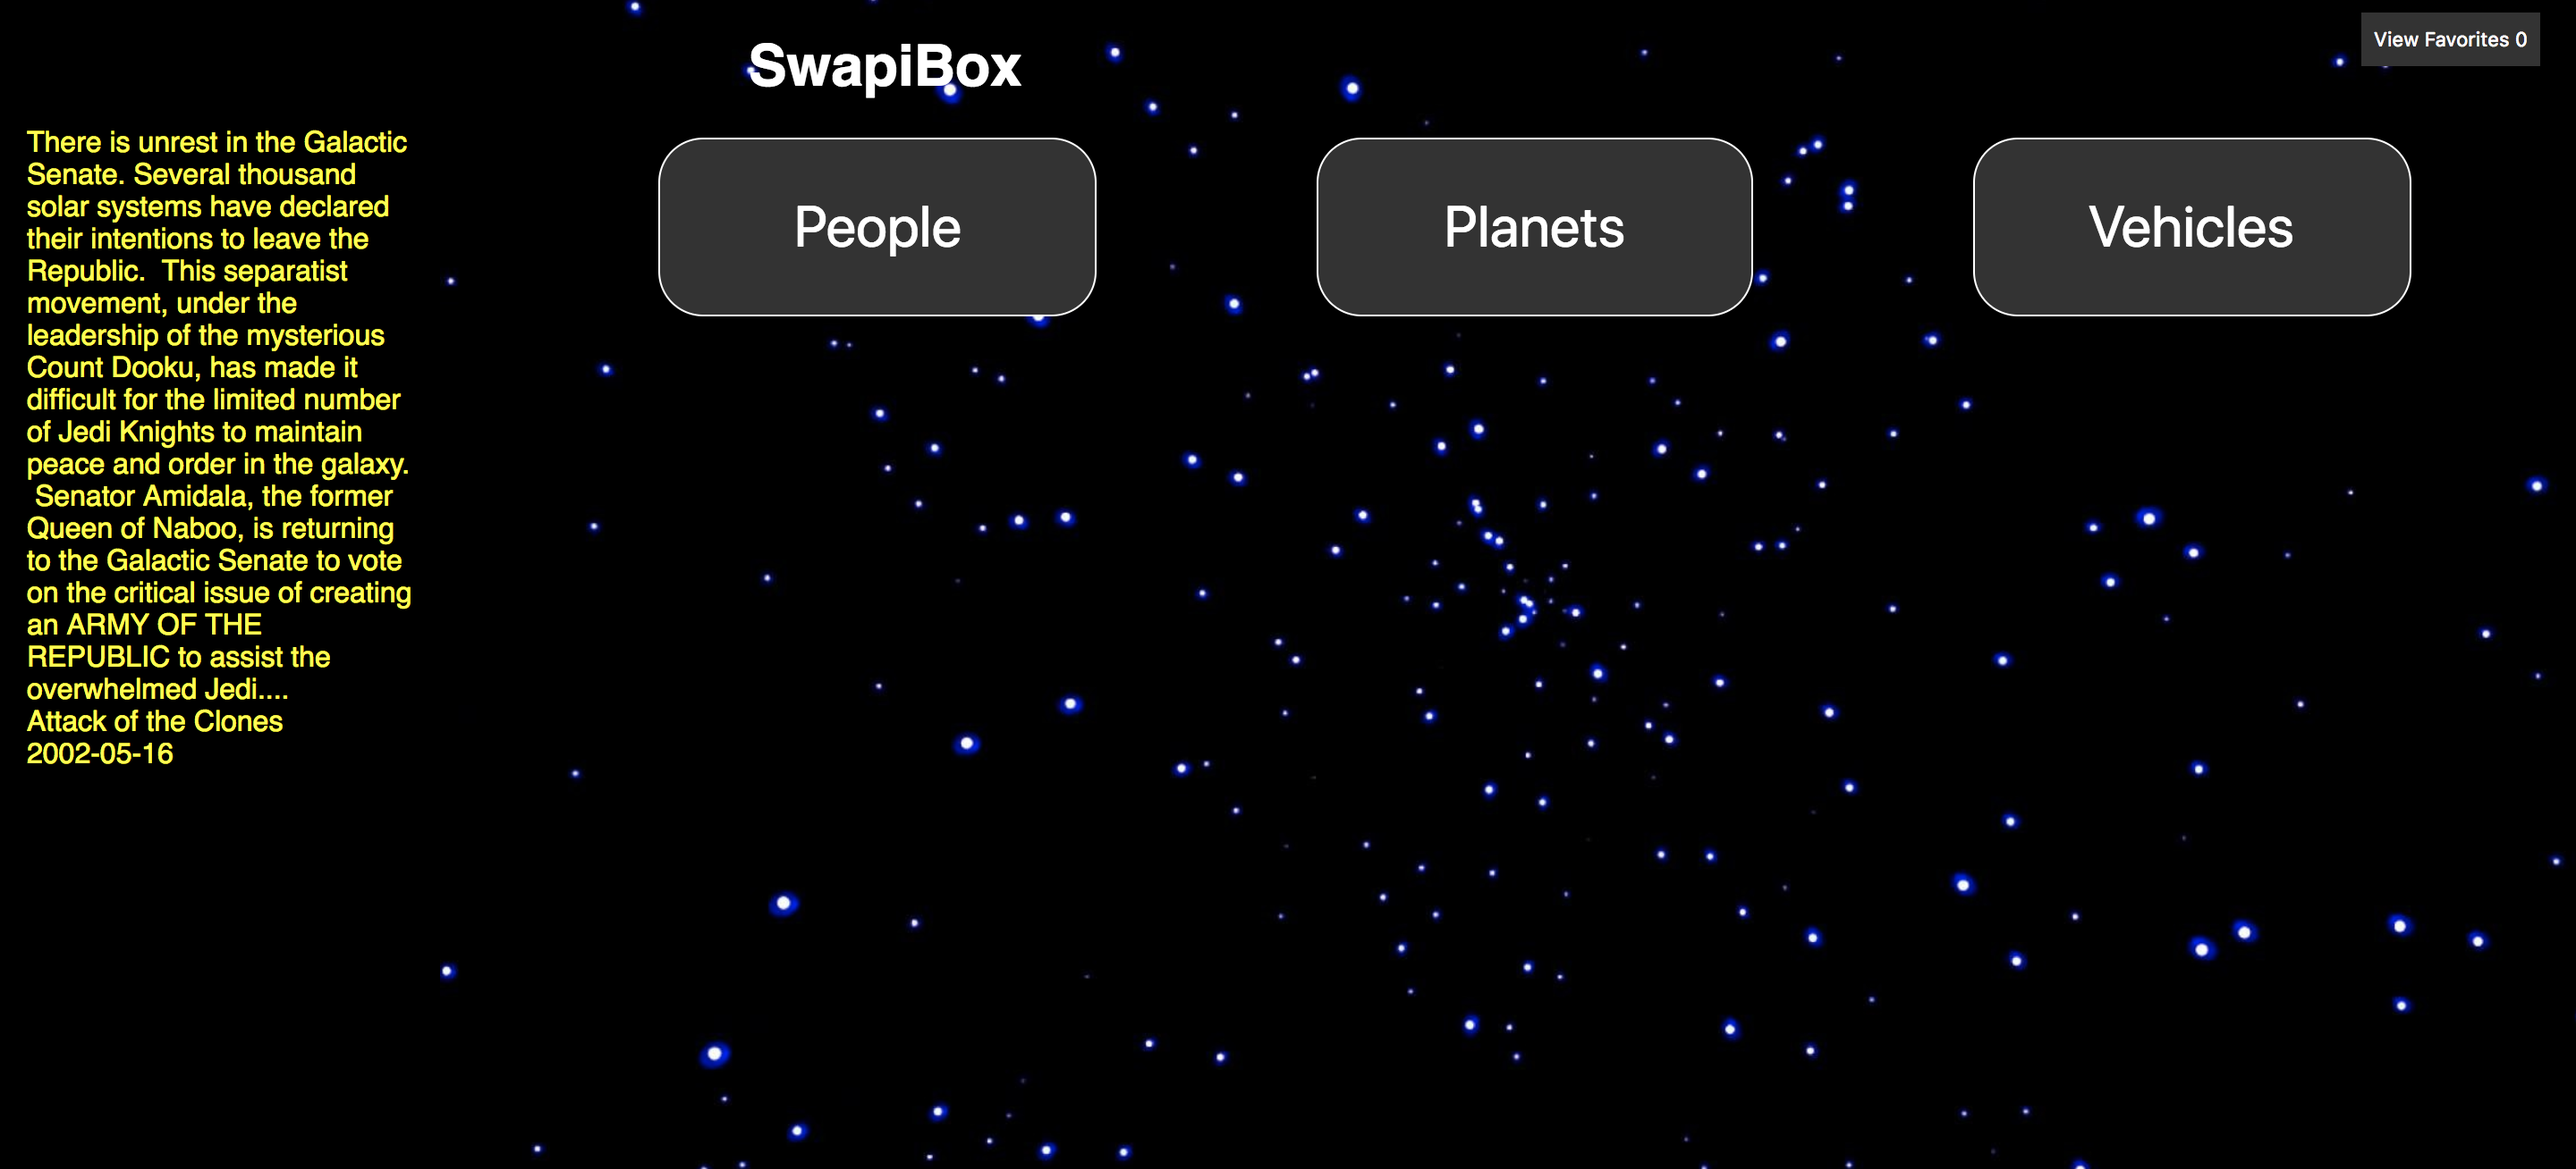
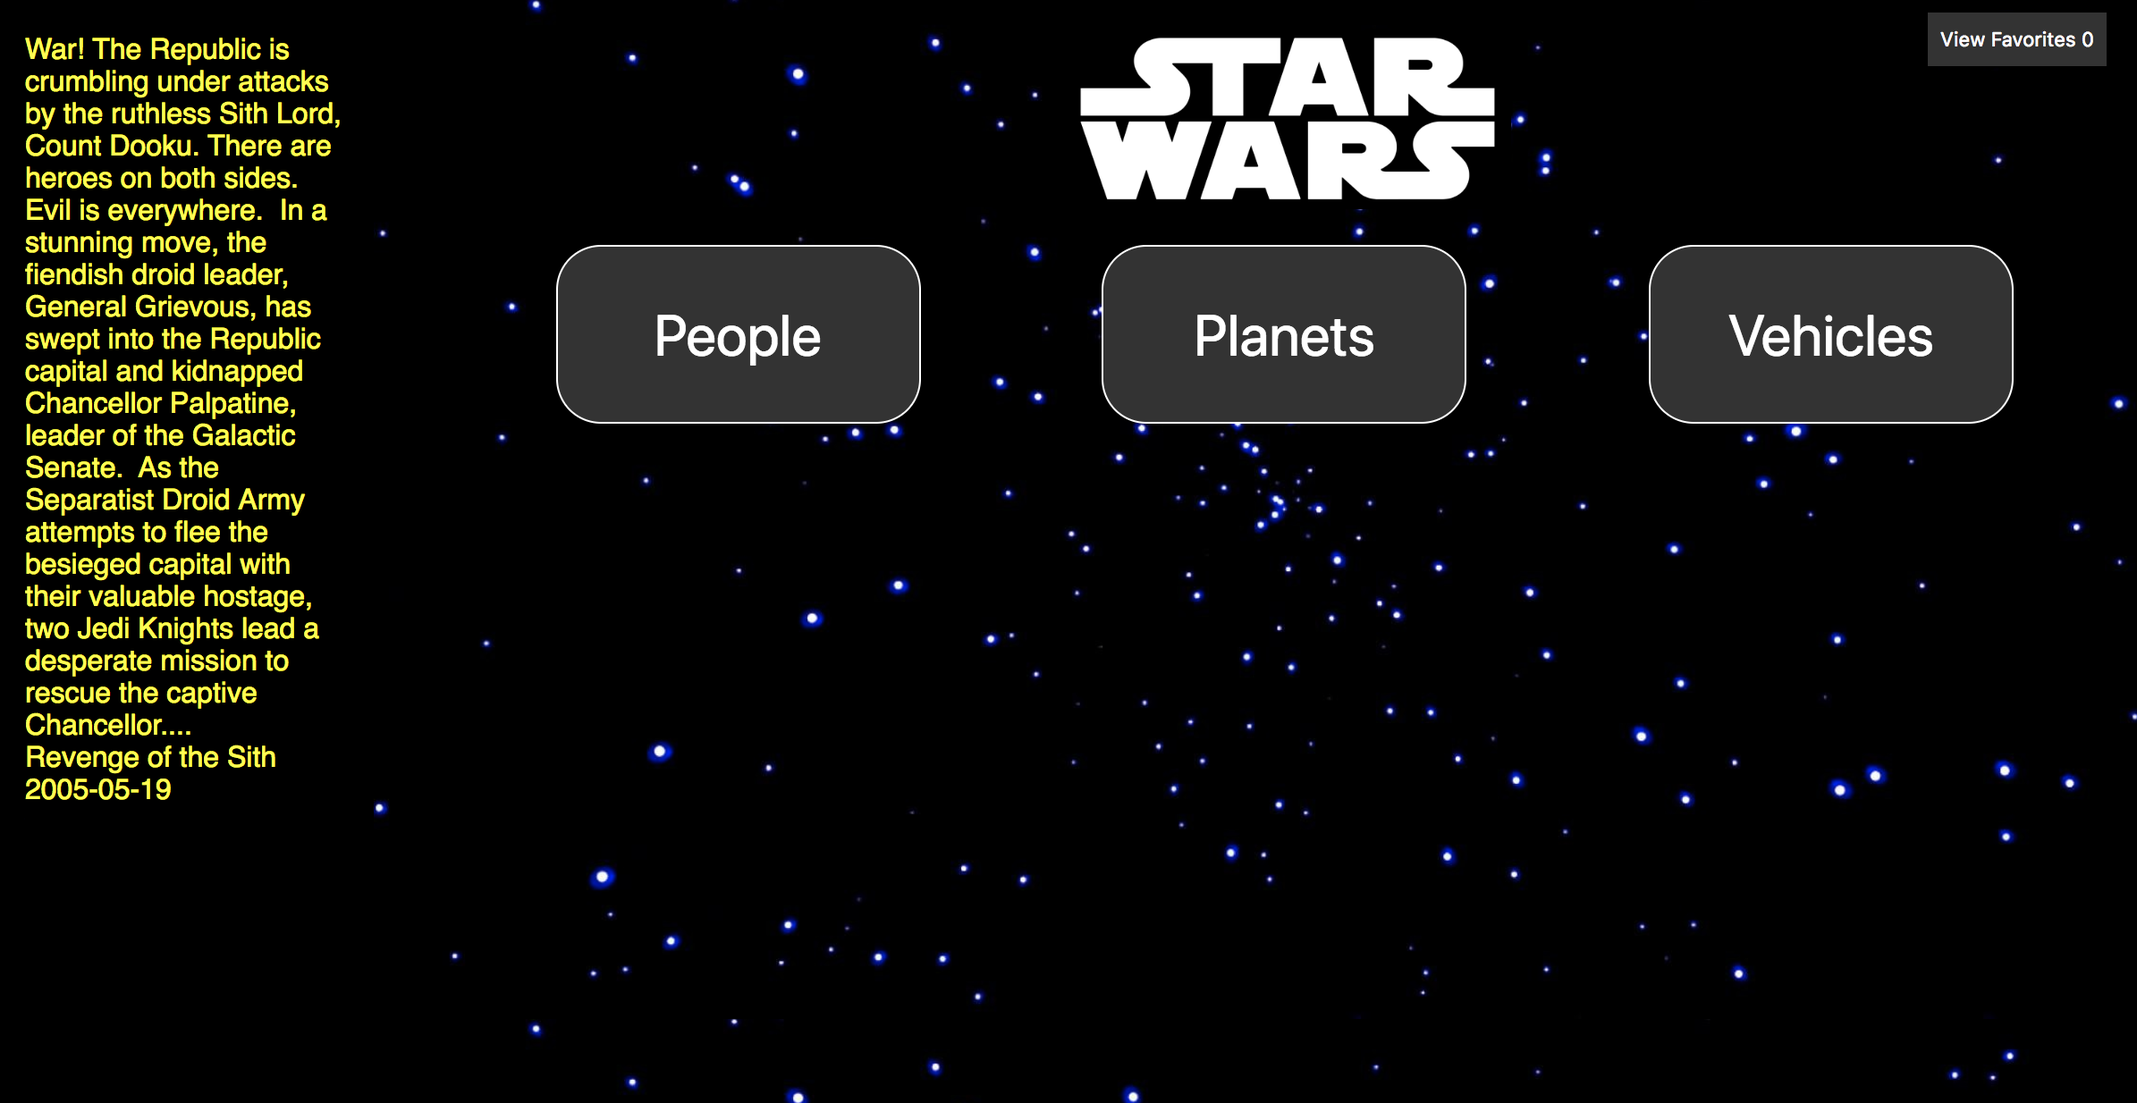
Fix css height issue, delete commented out code, fix linter errors

diff --git a/src/tests/App.test.js b/src/tests/App.test.js
@@ -3,7 +3,6 @@ import ReactDOM from 'react-dom';
 import App from '../Components/App/App.js';
 import { shallow, mount } from 'enzyme';
 
-
 describe('APP TESTS', () => {
 
   it('should have a default state of cards that is an empty array', () => {
@@ -22,14 +21,13 @@ describe('APP TESTS', () => {
 
     window.fetch = await jest.fn().mockImplementation(() => Promise.resolve({
       json: () => Promise.resolve(mockScrollTextInfo)
-    }))
+    }));
     const wrapper = mount(<App />);
-    console.log(wrapper.state())
+
     expect(wrapper.state('scrollTextMovie')).toEqual({});
   });
 
   it('should call fetch with the correct params when getData is invoked', () => {
-    // Setup
     const mockEvent = { target: {title: 'people'} };
     const expectedParams = 'https://swapi.co/api/people/';
     const wrapper = shallow(<App />);
@@ -37,16 +35,12 @@ describe('APP TESTS', () => {
     window.fetch = jest.fn().mockImplementation(() => Promise.resolve({
       json: () => Promise.resolve(mockPeopleInfo)
     }));
-
-    // Execution
     wrapper.instance().getData(mockEvent);
 
-    // Expection
     expect(window.fetch).toHaveBeenCalledWith(expectedParams);
   });
 
   it('should call fetch with the correct params when getPLanetData is invoked', () => {
-    // Setup
     const mockEvent = { target: { title: 'planet' } };
     const expectedParams = 'https://swapi.co/api/planet/';
     const wrapper = shallow(<App />);
@@ -55,10 +49,8 @@ describe('APP TESTS', () => {
       json: () => Promise.resolve(mockPlanetInfo)
     }));
 
-    // Execution
     wrapper.instance().getPlanetData(mockEvent);
 
-    // Expection
     expect(window.fetch).toHaveBeenCalledWith(expectedParams);
   });
 
@@ -66,7 +58,8 @@ describe('APP TESTS', () => {
     const mockVehicles = [
       { "name": "Sand Crawler", "model": "Digger Crawler", "manufacturer": "Corellia Mining Corporation", "cost_in_credits": "150000", "length": "36.8", "max_atmosphering_speed": "30", "crew": "46", "passengers": "30", "cargo_capacity": "50000", "consumables": "2 months", "vehicle_class": "wheeled", "pilots": []
       }];
-      const wrapper = shallow(<App />);
+    const wrapper = shallow(<App />);
+
     expect(wrapper.instance().cleanVehicleData(mockVehicles)).toEqual([{ "class": "wheeled", "id": "0 Sand Crawler", "model": "Digger Crawler", "name": "Sand Crawler", "passengers": "30" }]);
   });
 
@@ -76,6 +69,7 @@ describe('APP TESTS', () => {
     const wrapper = shallow(<App />);
     wrapper.instance().setState({cards: mockState});
     wrapper.instance().addToFaves(mockKey);
+    
     expect(wrapper.state('favorites')).toEqual([{ "class": "wheeled", "id": "0 Sand Crawler", "model": "Digger Crawler", "name": "Sand Crawler", "passengers": "30" }]);
 
   });
@@ -93,23 +87,4 @@ describe('APP TESTS', () => {
 
   });
 
-  });
-
-
-
- // it('should call fetch with the correct params when getPLanetData is invoked', () => {
-  //   // Setup
-  //   const mockEvent = { target: { title: 'vehicle' } };
-  //   const expectedParams = 'https://swapi.co/api/vehicle/';
-  //   const wrapper = shallow(<App />);
-  //   const mockVehicleInfo = [];
-  //   window.fetch = jest.fn().mockImplementation(() => Promise.resolve({
-  //     json: () => Promise.resolve(mockVehicleInfo)
-  //   }));
-
-  //   // Execution
-  //   wrapper.instance().getVehicleData(mockEvent);
-
-  //   // Expection
-  //   expect(window.fetch).toHaveBeenCalledWith(expectedParams);
-  // });
+});

diff --git a/src/Components/App/App.css b/src/Components/App/App.css
@@ -1,10 +1,12 @@
-
+.App {
+  display: flex;
+  min-height: 1500px;
+}
 .text-scroll-container {
   width: 15vw;
   background-color: #000000;
   display: inline-block;
-  height: 1000px;
-  padding: 15px;
+  padding: 0 15px 0 15px;
 }
 
 .text-scroll {
@@ -15,15 +17,13 @@
   animation: scroll 100s linear 0s infinite;
 }
 
-main {
+.card-holder {
   width: 85vw;
-  background-image: url(../../space.jpg);
+  background-image: url(../../images/space.jpg);
   background-size: contain;
   display: inline-block;
-  position: fixed;
   top: 0;
-  height: 2000px;
-  overflow: scroll;
+  overflow-y: scroll;
 }
 
 @keyframes scroll {

diff --git a/src/Components/Header/Header.js b/src/Components/Header/Header.js
@@ -5,7 +5,7 @@ import PropTypes from 'prop-types';
 const Header = ({ showFaves, favorites }) => {
   return (
     <div className= "header">
-      <img src="http://1000logos.net/wp-content/uploads/2017/06/Star-Wars-symbol.jpg" alt="Star Wars Logo" height="100" width="250"/>
+      <img src= "http://1000logos.net/wp-content/uploads/2017/06/Star-Wars-symbol.jpg" alt="Star Wars Logo" height="100" width="250"/>
       <button
         onClick={showFaves}
         className="show-faves-button"

diff --git a/src/tests/Header.test.js b/src/tests/Header.test.js
@@ -5,10 +5,10 @@ import { shallow } from 'enzyme';
 
 describe('HEADER TESTS', () => {
   let wrapper;
-
+  let mockFaves = [];
   beforeEach(() => {
     wrapper = shallow(<Header 
-                        favorites="[]"
+                        favorites={mockFaves}
                         showFaves={jest.fn()}
                       />);
   });

diff --git a/src/Components/Card/Card.js b/src/Components/Card/Card.js
@@ -71,20 +71,3 @@ Card.propTypes = {
 };
 
 export default Card;
-
-
-
-// Planet Cards:
-// Name
-// Terrain
-// Population
-// Climate
-// Residents
-// A button to “Favorite” the planet
-// Vehicle Cards:
-// Name
-// Model
-// Class
-// Number of Passengers
-// A button to “Favorite” the vehicle
-

diff --git a/src/Components/App/App.js b/src/Components/App/App.js
@@ -185,7 +185,7 @@ class App extends Component {
             {this.state.scrollTextMovie.year}
           </p>
         </aside>
-        <main>
+        <main className="card-holder">
           <Header 
             favorites={this.state.favorites}
             showFaves={this.showFaves}/>

diff --git a/src/Components/CardContainer/CardContainer.css b/src/Components/CardContainer/CardContainer.css
@@ -2,7 +2,7 @@
   display: flex;
   justify-content: space-evenly;
   flex-wrap: wrap;
-  overflow: scroll;
+  overflow: visible;
   padding-right: 25px;
   padding-top: 30px;
 }

diff --git a/src/Components/Header/Header.css b/src/Components/Header/Header.css
@@ -2,7 +2,7 @@
   display: flex;
   justify-content: space-between;
   padding-right: 50px;
-  padding-left: 33%;
+  padding-left: 5%;
 }
 
 img {

diff --git a/README.md b/README.md
@@ -20,5 +20,5 @@ Run `npm start`
 ![Landing Page](./src/images/landing-page.png "Landing Page")
 
 #### People Data:
-![People Data Page](./src/images/landing-page.png "People Data Page")
+![People Data Page](./src/images/people-page.png "People Data Page")
 
